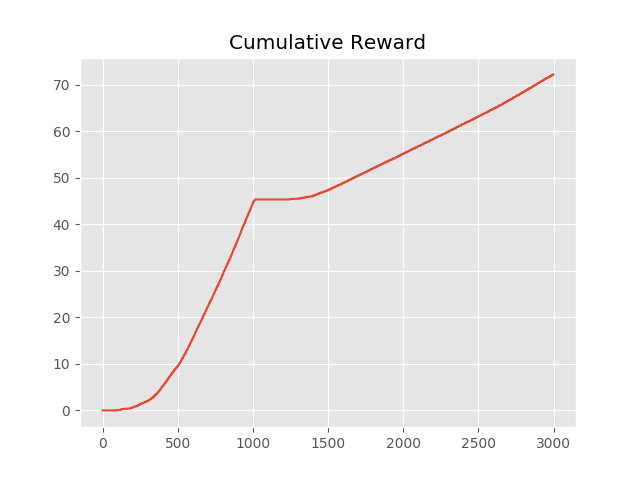
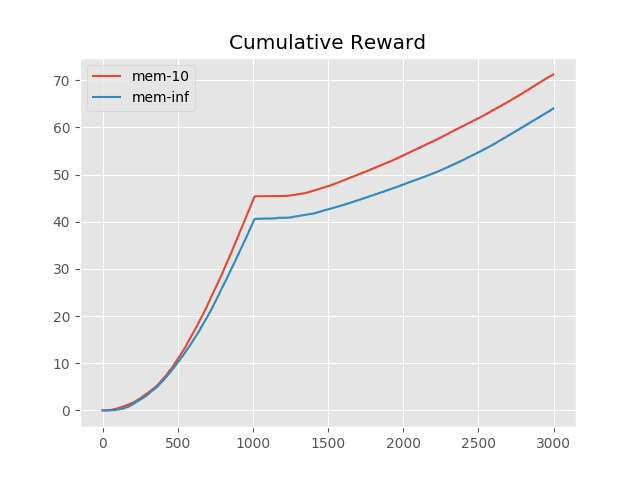
maze and q vs dynaq are tested

Changed region(s): [[0.0625, 0.2188, 0.875, 0.875], [0.0625, 0.125, 0.875, 0.2188], [0.0938, 0.5312, 0.125, 0.5938]]

diff --git a/hw3/dynaq.py b/hw3/dynaq.py
@@ -26,6 +26,17 @@ def ep_greedy(Q,s,ep):
     else:
         return greedy(Q,s)
 
+def policy_gen(Q,ep,nS,nA):
+    policy = {}
+    for s in range(nS):
+        row = np.zeros(nA)
+        actions = _greedy(Q,s)
+        row[actions] = (1-ep) / len(actions)
+        row = row + np.ones(nA) * ep / nA
+        policy[s] = row
+    policy[nS] = np.ones(nA) / nA
+    return policy
+
 def testshow(env,policy):
     s = env.reset()
     done = False
@@ -36,6 +47,7 @@ def testshow(env,policy):
         ss, r, done, _ = env.step(a)
         s = ss
         cum_rew += r
+        input()
     env.render()
     print(cum_rew)
 
@@ -43,8 +55,8 @@ def _onestep_q(s, a, ss, r, Q, gamma=1, alpha=0.9):
     Q[s,a] = Q[s,a] + alpha * (r + gamma * np.max(Q[ss]) - Q[s,a])
 
 class plan_model(dict):
-    def __init__(self):
-        self._max_mem = 10
+    def __init__(self,max_mem=10):
+        self._max_mem = max_mem
         super().__init__()
 
     def feed(self,s,a,ss,r):
@@ -72,11 +84,44 @@ class plan_model(dict):
         r = entry[1][idx]
         return state, action, ss, r
 
-def dynaq_step(env1,env2,n=10,gamma=1.,alpha=1.,ep=0.1,max_steps=100,switch_time=-1):
+class plan_model_stationary(dict):
+    def __init__(self):
+        super().__init__()
+
+    def feed(self,s,a,ss,r):
+        # update the model
+        action = self.setdefault(s,{})
+        entry = action.setdefault(a,[0,{},0])
+        # this is for deterministic environment, for stochastic case, comment
+        # out the if clause 
+        if ss not in entry[1].keys():
+            entry[0] = 0
+            entry[1] = {}
+        entry[0] += 1
+        entry[1][ss] = entry[1].setdefault(ss,0) + 1
+        entry[2] = (entry[2] * (entry[0] - 1) + r) / entry[0]
+
+    def sample(self):
+        state = np.random.choice(list(self.keys()))
+        action = np.random.choice(list(self[state].keys()))
+        entry = self[state][action]
+        p, ss_list = [],[]
+        for key,val in entry[1].items():
+            ss_list.append(key)
+            p.append(val/entry[0])
+        ss = np.random.choice(ss_list,p=p)
+        r = entry[2]
+        return state, action, ss, r
+
+def dynaq_step(env1,env2,n=10,gamma=1.,alpha=1.,ep=0.1,
+        max_steps=100,switch_time=-1,max_mem=10):
     env = env1
     nS = env.nS
     nA = env.nA
-    model = plan_model()
+    if max_mem > 0:
+        model = plan_model(max_mem)
+    else:
+        model = plan_model_stationary()
     Q = np.zeros((nS,nA))
     tot_steps = 0
     rew_list = np.zeros(max_steps)
@@ -109,14 +154,19 @@ def dynaq_step(env1,env2,n=10,gamma=1.,alpha=1.,ep=0.1,max_steps=100,switch_time
     print('')
     return Q, rew_list, tot_steps
 
-def dynaq(env1,env2,n=10,gamma=1.,alpha=1.,ep=0.1,episodes=500,switch_time=-1):
+def dynaq(env1,env2,n=10,gamma=1.,alpha=1.,ep=0.1,
+        episodes=500,switch_time=-1,max_mem=10):
     env = env1
     nS = env.nS
     nA = env.nA
-    model = plan_model()
+    if max_mem > 0:
+        model = plan_model(max_mem)
+    else:
+        model = plan_model_stationary()
     Q = np.zeros((nS,nA))
     tot_steps = 0
     rew_list = np.zeros(episodes)
+    steps_list = np.zeros(episodes)
     switched = False
     episode = 0
     while episode < episodes:
@@ -143,15 +193,23 @@ def dynaq(env1,env2,n=10,gamma=1.,alpha=1.,ep=0.1,episodes=500,switch_time=-1):
                 counter),end='')
             sys.stdout.flush()
         rew_list[episode] = rew
+        steps_list[episode] = counter
         episode += 1
     print('')
-    return Q, rew_list
+    return Q, rew_list, steps_list
 
 def QtoV(Q):
     V = np.zeros(len(Q))
     for idx,row in enumerate(Q):
         V[idx] = np.max(row)
     return V
+
+def action(policy,s):
+    if sum(policy[s]) != 1:
+        p = policy[s] / sum(policy[s])
+    else:
+        p = policy[s]
+    return np.random.choice(len(policy[0]),p=p)
 
 def plot_dynaq_maze():
     maze1 = Maze()
@@ -173,18 +231,30 @@ def plot_dynaq_maze():
     # the difference is guaranteed to be very small
     obstacle_switch_time = 1000
     max_steps = 3000
-    runs = 20
+    runs = 50
 
-    avg_rew = []
+    avg_rew1 = []
+    avg_rew2 = []
     for run in range(runs):
-        Q, rew_list, tot_steps = \
+        print('run ',run)
+        Q1, rew_list1, tot_steps1 = \
             dynaq_step(maze1, maze2, n=10, alpha=1., gamma=0.95,
-                    max_steps=max_steps, switch_time = obstacle_switch_time)
-        avg_rew.append(rew_list)
-    avg_rew = np.mean(np.array(avg_rew),axis=0)
-    cum_rew = [sum(avg_rew[:i+1]) for i in range(len(avg_rew))]
+                    max_steps=max_steps, switch_time = obstacle_switch_time,
+                    max_mem=1)
+        avg_rew1.append(rew_list1)
+        Q2, rew_list2, tot_steps2 = \
+            dynaq_step(maze1, maze2, n=10, alpha=1., gamma=0.95,
+                    max_steps=max_steps, switch_time = obstacle_switch_time,
+                    max_mem=-1)
+        avg_rew2.append(rew_list2)
+    avg_rew1 = np.mean(np.array(avg_rew1),axis=0)
+    cum_rew1 = [sum(avg_rew1[:i+1]) for i in range(len(avg_rew1))]
+    avg_rew2 = np.mean(np.array(avg_rew2),axis=0)
+    cum_rew2 = [sum(avg_rew2[:i+1]) for i in range(len(avg_rew2))]
     fig = plt.figure()
-    plt.plot(cum_rew)
+    plt.plot(cum_rew1,label='mem-10')
+    plt.plot(cum_rew2,label='mem-inf')
+    plt.legend()
     plt.title("Cumulative Reward")
     plt.savefig('dynaq_maze.png')
     plt.close(fig)
@@ -196,41 +266,98 @@ def plot_q_vs_dynaq():
     switch_time = -1
     runs = 20
     avg_rew1,avg_rew2 = [], []
+    avg_steps1,avg_steps2 = [], []
     for run in range(runs):
-        Q1, rew_list1 = \
+        Q1, rew_list1, steps_list1 = \
             dynaq(env1, env2, n=10, alpha=1., gamma=1.0,
                     episodes=episodes,switch_time=switch_time)
         avg_rew1.append(rew_list1)
-        Q2, rew_list2 = \
+        avg_steps1.append(steps_list1)
+        Q2, rew_list2, steps_list2 = \
             dynaq(env1, env2, n=0, alpha=1., gamma=1.0,
                     episodes=episodes,switch_time=switch_time)
         avg_rew2.append(rew_list2)
+        avg_steps2.append(steps_list2)
     avg_rew1 = np.mean(np.array(avg_rew1),axis=0)
     avg_rew2 = np.mean(np.array(avg_rew2),axis=0)
+    avg_steps1 = np.mean(np.array(avg_steps1),axis=0)
+    avg_steps2 = np.mean(np.array(avg_steps2),axis=0)
+    cum_steps1 = [sum(avg_steps1[:idx]) for idx in range(episodes)]
+    cum_steps2 = [sum(avg_steps2[:idx]) for idx in range(episodes)]
     fig = plt.figure()
     plt.plot(avg_rew1,label='dyna-q')
     plt.plot(avg_rew2,label='q')
     plt.legend()
     plt.title("Reward Per Episode")
-    plt.savefig('dynaq_taxi.png')
+    plt.savefig('dynaq_taxi_rewards.png')
+    plt.close(fig)
+    fig = plt.figure()
+    plt.plot(cum_steps1,label='dyna-q')
+    plt.plot(cum_steps2,label='q')
+    plt.legend()
+    plt.title("Steps Per Episode")
+    plt.savefig('dynaq_taxi_steps.png')
+    plt.close(fig)
+    fig = plt.figure()
+    V1 = QtoV(Q1)
+    V2 = QtoV(Q2)
+    plt.plot(V1,marker='o',linestyle='None',label='dyna-q')
+    plt.plot(V2,marker='x',linestyle='None',label='q')
+    plt.legend()
+    plt.title("Value Function")
+    plt.savefig('dynaq_taxi_value.png')
     plt.close(fig)
 
-if __name__ == '__main__':
+def plot_non_stationary():
     env1 = gym.make('Taxi-v4')
     env2 = gym.make('Taxi-v5')
     episodes = 300
-    switch_time = 100
+    switch_time = 200
     runs = 20
-    avg_rew1 = []
+    avg_rew1,avg_rew2 = [], []
+    avg_steps1,avg_steps2 = [], []
     for run in range(runs):
-        Q1, rew_list1 = \
+        Q2, rew_list2, steps_list2 = \
             dynaq(env1, env2, n=10, alpha=1., gamma=1.0,
-                    episodes=episodes,switch_time=switch_time)
+                    episodes=episodes,switch_time=switch_time,max_mem=-1)
+        avg_rew2.append(rew_list2)
+        avg_steps2.append(steps_list2)
+        Q1, rew_list1, steps_list1 = \
+            dynaq(env1, env2, n=10, alpha=1., gamma=1.0,
+                    episodes=episodes,switch_time=switch_time,max_mem=10)
         avg_rew1.append(rew_list1)
+        avg_steps1.append(steps_list1)
     avg_rew1 = np.mean(np.array(avg_rew1),axis=0)
+    avg_rew2 = np.mean(np.array(avg_rew2),axis=0)
+    avg_steps1 = np.mean(np.array(avg_steps1),axis=0)
+    avg_steps2 = np.mean(np.array(avg_steps2),axis=0)
+    cum_steps1 = [sum(avg_steps1[:idx]) for idx in range(episodes)]
+    cum_steps2 = [sum(avg_steps2[:idx]) for idx in range(episodes)]
     fig = plt.figure()
-    plt.plot(avg_rew1,label='dyna-q')
+    plt.plot(avg_rew1,label='mem-10')
+    plt.plot(avg_rew2,label='mem-inf')
     plt.legend()
     plt.title("Reward Per Episode")
-    plt.savefig('dynaq_non_stationary.png')
+    plt.savefig('dynaq_non_stationary_rewards.png')
     plt.close(fig)
+    fig = plt.figure()
+    plt.plot(cum_steps1,label='mem-10')
+    plt.plot(cum_steps2,label='mem-inf')
+    plt.legend()
+    plt.title("Steps Per Episode")
+    plt.savefig('dynaq_non_stationary_steps.png')
+    plt.close(fig)
+    fig = plt.figure()
+    V1 = QtoV(Q1)
+    V2 = QtoV(Q2)
+    plt.plot(V1,marker='o',linestyle='None',label='mem-10')
+    plt.plot(V2,marker='x',linestyle='None',label='mem-inf')
+    plt.legend()
+    plt.title("Value Function")
+    plt.savefig('dynaq_non_stationary_value.png')
+    plt.close(fig)
+    # policy = policy_gen(Q1,0,env2.nS,env1.nA)
+    # testshow(env2,policy)
+    
+if __name__ == '__main__':
+    plot_q_vs_dynaq()

diff --git a/hw3/mytaxi/__init__.py b/hw3/mytaxi/__init__.py
@@ -2,7 +2,7 @@ from gym.envs.registration import register
 
 register(
     id='Taxi-v4',
-    entry_point='mytaxi.mytaxi:TaxiEnv',kwargs={'jam_prob':0.3})
+    entry_point='mytaxi.mytaxi:TaxiEnv',kwargs={'jam_prob':0.1})
 
 register(
     id='Taxi-v5',

diff --git a/hw3/mytaxi/mytaxi.py b/hw3/mytaxi/mytaxi.py
@@ -18,10 +18,10 @@ MAP = [
 
 MAP = [
     "+---------+",
-    "|R: | : :G|",
+    "|R? | : ?G|",
     "| : ? : : |",
-    "| : ? : : |",
-    "| | : | : |",
+    "| : ? ? : |",
+    "| | ? | : |",
     "|Y| : |B: |",
     "+---------+",
 ]
